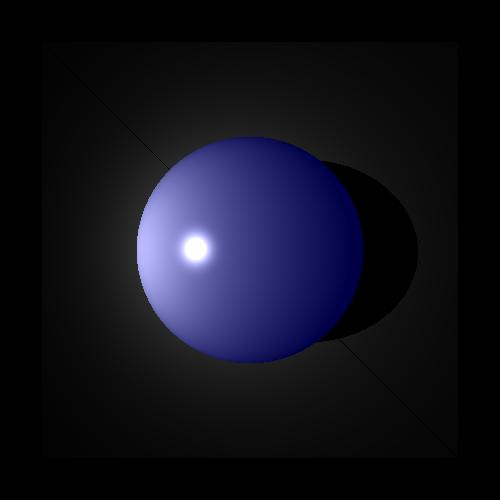
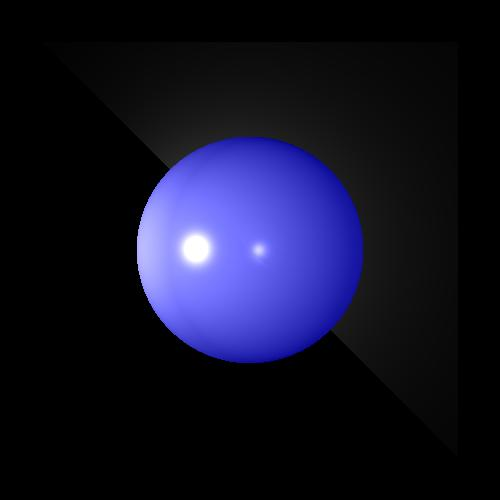
stuff with fixes that dont fix

Changed region(s): [[0.18, 0.27, 0.75, 0.78]]

diff --git a/renderer/Render.java b/renderer/Render.java
@@ -8,9 +8,6 @@ import java.util.Map.Entry;
 
 import org.junit.validator.PublicClassValidator;
 
-import com.sun.java_cup.internal.runtime.virtual_parse_stack;
-import com.sun.org.apache.xalan.internal.xsltc.util.IntegerArray;
-
 import elements.Light;
 import elements.LightSource;
 import primitives.Vector;
@@ -101,7 +98,7 @@ public class Render {
 	}
 
 	private Color calcColor(GeoPoint geopoint, Ray inRay) {
-		return calcColor(geopoint, inRay, 3, 1.0);
+		return calcColor(geopoint, inRay, 2, 1.0);
 	}
 
 	/**
@@ -116,7 +113,10 @@ public class Render {
 			return new Color(0, 0, 0);
 
 		Color color = new Color(_scene.get_ambientLight().getIntensity());
-		color = new Color(color.add(geopoint.geometry.get_emission()));
+		GeoPoint g = geopoint;
+		Geometry g1 = g.geometry;		
+		Color e = new Color(g1.get_emission());
+		color = new Color(color.add(e));
 		Vector v = inRay.get_direction();
 
 		// Vector v = p.subtract(_scene.get_camera().get_p0()).normalize();//

diff --git a/unittests/RenderTest.java b/unittests/RenderTest.java
@@ -227,11 +227,12 @@ public class RenderTest {
 				new Point3D(250, -250, 120), new Color(0, 0, 0), new Material(0.9, 0.8, 100,0,0));
 		Triangle triangle2 = new Triangle(new Point3D(250, 250, 120), new Point3D(-250, 250, 120),
 				new Point3D(250, -250, 120), new Color(0, 0, 0), new Material(0.9, 0.8, 100,0,0));
-
-		geometries.add(triangle1);
 		
 		geometries.add(sphere);
-		geometries.add(triangle2);
+		geometries.add(triangle1);
+		//geometries.add(triangle2);
+
+
 
 		scene.set_geometries(geometries);
 		List<LightSource> lights = new ArrayList<LightSource>();
